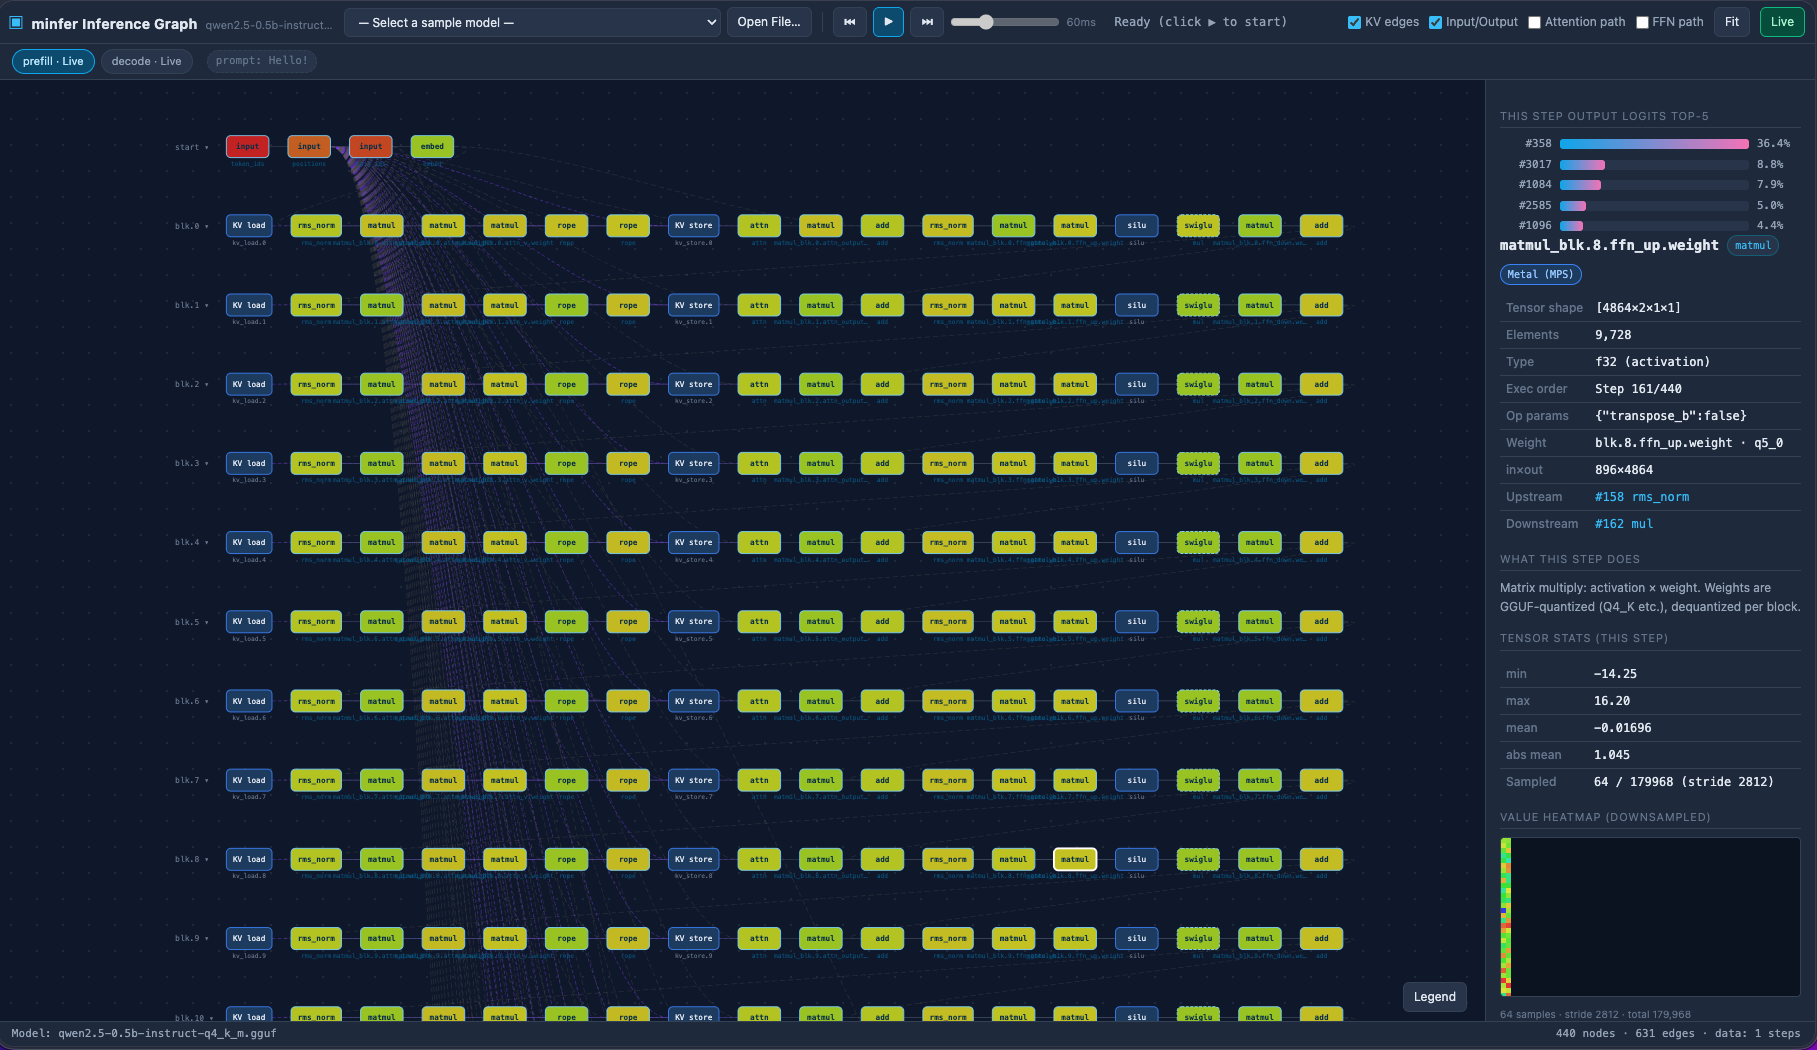
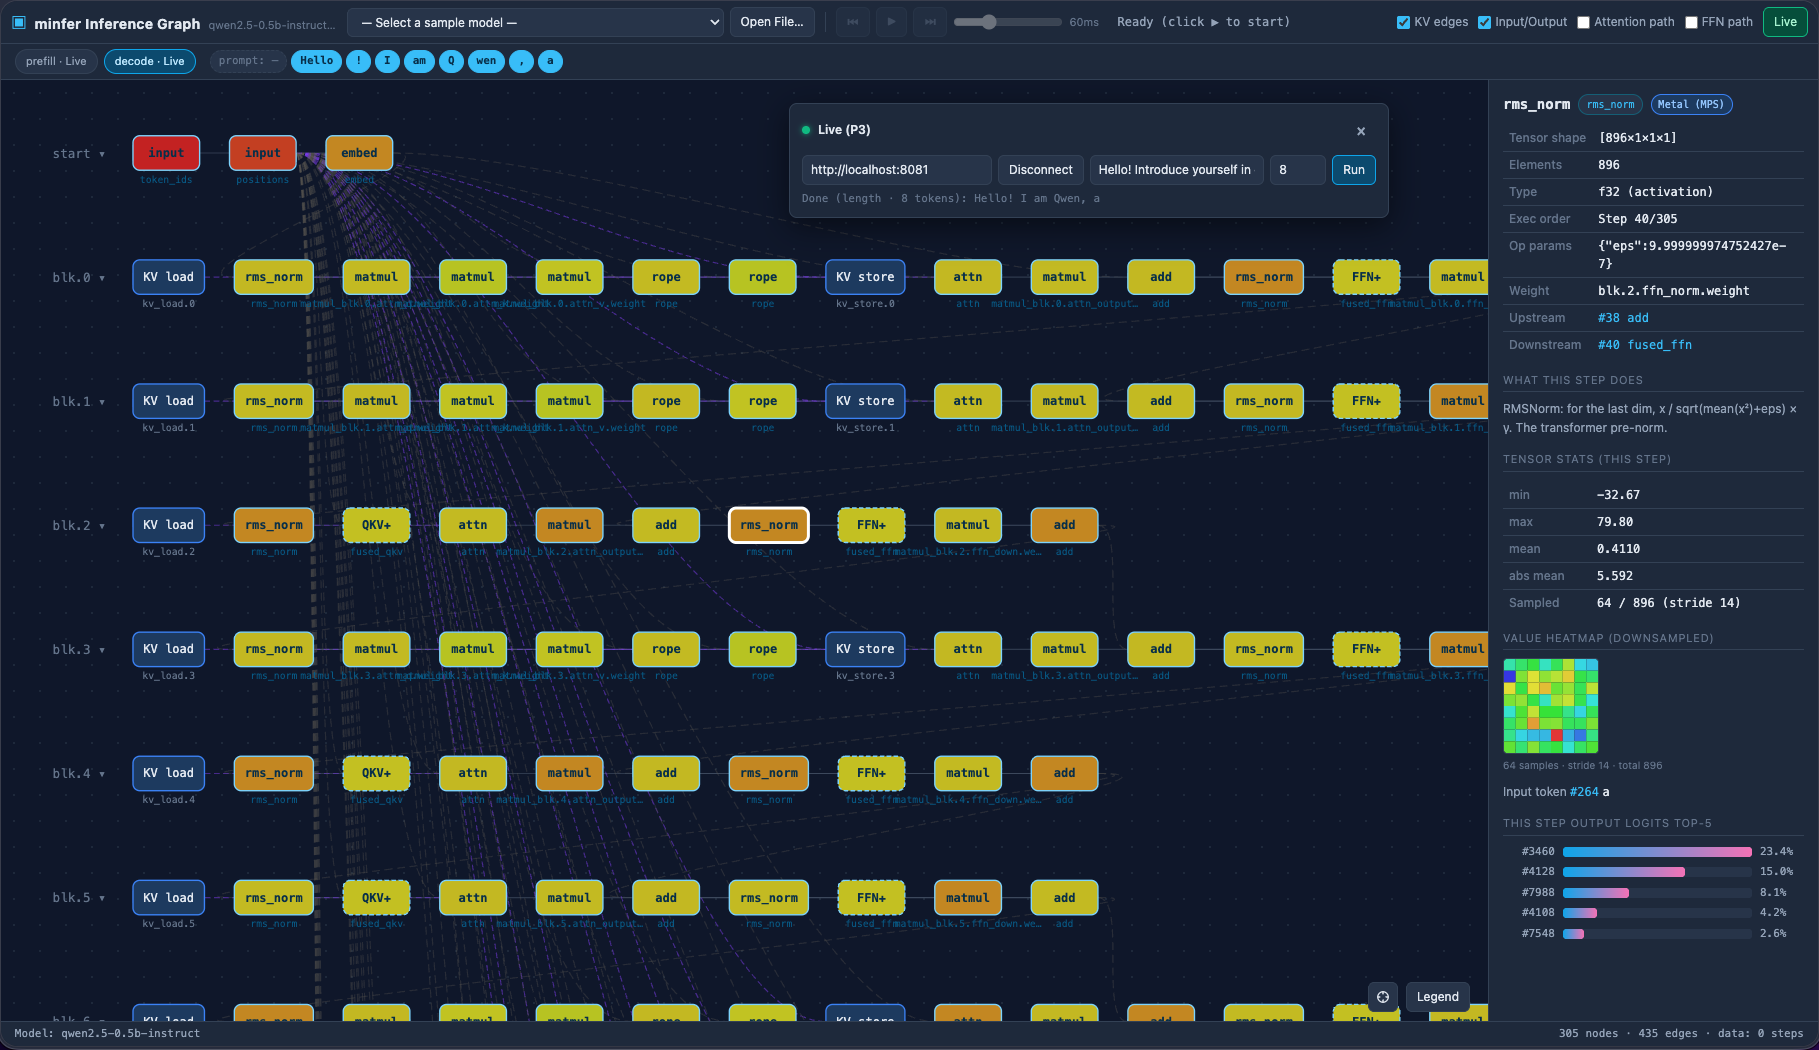
feat(viz): improve heatmap layout and panel content ordering
- Moved step summary below node details in renderPanel
- Improved heatmap grid fallback for 1D tensors
- Added adaptive cell sizing based on column count
- Updated heatmap SVG to use viewBox and preserveAspectRatio
- Updated demo image to reflect UI changes

diff --git a/viz/app.js b/viz/app.js
@@ -441,7 +441,6 @@ function renderPanel(id) {
       step = liveSteps.length ? liveSteps[liveSteps.length - 1] : null;
     }
   }
-  if (step) h += stepSummaryHtml(step);
 
   h += `<div class="node-header"><h3>${htmlEscape(n.name)}</h3>`;
   h += `<span class="badge op">${htmlEscape(n.op)}</span>`;
@@ -481,6 +480,10 @@ function renderPanel(id) {
   h += `<div class="explain">${OP_EXPLAIN[n.op] || "(no description yet)"}</div>`;
 
   h += renderExtraData(n);
+  // Step overview (input token + logits top-5) goes below the node details so
+  // clicking a node shows its details first instead of hiding them under the
+  // (scrolling) step summary.
+  if (step) h += stepSummaryHtml(step);
   body.innerHTML = h;
   body.querySelectorAll(".link-node").forEach(s => {
     s.addEventListener("click", () => selectNode(parseInt(s.dataset.id, 10)));
@@ -524,20 +527,26 @@ function renderExtraData(n) {
 function renderHeatmap(containerId, values, shape, stride) {
   const wrap = document.getElementById(containerId);
   if (!wrap) return;
-  const cols = Math.min((shape && shape[1]) || 1, 16);
+  // The natural layout mirrors the tensor's [d, nt] grid. But for a 1D/decode
+  // tensor (nt == 1) the grid collapses to a single vertical column (a thin
+  // strip), which reads poorly. Fall back to a roughly-square grid so the
+  // downsampled samples form a readable heatmap.
+  let cols = Math.min((shape && shape[1]) || 1, 16);
+  if (cols < 2) cols = Math.max(2, Math.min(16, Math.ceil(Math.sqrt(values.length))));
   const rows = Math.ceil(values.length / cols);
+  const CELL = Math.max(6, Math.min(12, Math.floor(200 / cols)));
   let min = Infinity, max = -Infinity;
   for (const v of values) { if (v < min) min = v; if (v > max) max = v; }
   const span = (max - min) || 1;
-  const W = cols * 5, H = Math.max(rows * 5, 10);
+  const W = cols * CELL, H = rows * CELL;
   let cells = "";
   for (let i = 0; i < values.length; i++) {
     const t = (values[i] - min) / span;
     const hue = 240 - t * 240; // 蓝 → 红
-    const x = (i % cols) * 5, y = Math.floor(i / cols) * 5;
-    cells += `<rect x="${x}" y="${y}" width="5" height="5" fill="hsl(${hue},75%,55%)"/>`;
+    const x = (i % cols) * CELL, y = Math.floor(i / cols) * CELL;
+    cells += `<rect x="${x}" y="${y}" width="${CELL}" height="${CELL}" fill="hsl(${hue},75%,55%)"/>`;
   }
-  wrap.innerHTML = `<svg width="${W}" height="${H}" xmlns="${SVG_NS}">${cells}</svg>`;
+  wrap.innerHTML = `<svg width="${W}" height="${H}" viewBox="0 0 ${W} ${H}" xmlns="${SVG_NS}" preserveAspectRatio="none">${cells}</svg>`;
 }
 
 /* ---------------- 过滤 ---------------- */
@@ -600,6 +609,10 @@ function fit() {
 function initPanZoom() {
   let dragging = false, sx = 0, sy = 0, vx = 0, vy = 0;
   canvas.addEventListener("pointerdown", e => {
+    // Let node clicks through: setPointerCapture here would retarget the pointer
+    // (and the resulting click) to the canvas, so the node's click handler never
+    // fires and selecting a node by a real mouse click silently fails.
+    if (e.target.closest(".node-group")) return;
     dragging = true; sx = e.clientX; sy = e.clientY; vx = state.view.x; vy = state.view.y;
     canvas.classList.add("panning");
     canvas.setPointerCapture(e.pointerId);

diff --git a/viz/style.css b/viz/style.css
@@ -211,7 +211,7 @@ main { flex: 1; display: flex; flex-direction: column; min-height: 0; }
 .link-node:hover { text-decoration: underline; }
 
 .hm-wrap { margin-top: 8px; }
-.hm-wrap svg { width: 100%; border: 1px solid var(--border); border-radius: 4px; background: #0b1220; }
+.hm-wrap svg { display: block; max-width: 100%; border: 1px solid var(--border); border-radius: 4px; background: #0b1220; }
 .hm-caption { font-size: 10px; color: var(--fg-faint); margin-top: 4px; }
 
 /* ---------- live panel（P3） ---------- */
@@ -247,10 +247,14 @@ main { flex: 1; display: flex; flex-direction: column; min-height: 0; }
 .flex-spacer { flex: 1; }
 
 /* ---------- legend ---------- */
-#btn-legend {
+.corner-tools {
   position: fixed; right: 348px; bottom: 34px; z-index: 20;
-  background: var(--bg-3); font-size: 12px;
+  display: flex; align-items: center; gap: 8px;
 }
+.corner-tools button { background: var(--bg-3); font-size: 12px; display: inline-flex; align-items: center; }
+#btn-legend { background: var(--bg-3); font-size: 12px; }
+#btn-fit { width: 30px; height: 30px; justify-content: center; padding: 0; }
+#btn-fit svg { vertical-align: middle; }
 #legend-pop {
   display: none; position: fixed; right: 348px; bottom: 66px; z-index: 20;
   width: 420px; max-height: 70vh; overflow-y: auto;

diff --git a/viz/index.html b/viz/index.html
@@ -36,7 +36,6 @@
     <label title="Show input/output nodes"><input type="checkbox" id="f-io" checked> Input/Output</label>
     <label title="Only show nodes on the attention path"><input type="checkbox" id="f-attn"> Attention path</label>
     <label title="Only show nodes on the FFN path"><input type="checkbox" id="f-ffn"> FFN path</label>
-    <button id="btn-fit" title="Fit to window">Fit</button>
     <button id="btn-live" class="live-btn" title="Connect to a minfer server to watch live inference">Live</button>
   </div>
 </header>
@@ -100,7 +99,12 @@
   <div class="legend-title">Operator legend <button id="legend-close">×</button></div>
   <table id="legend-table"></table>
 </div>
-<button id="btn-legend" title="Operator legend">Legend</button>
+<div class="corner-tools">
+  <button id="btn-fit" title="Fit to window" aria-label="Fit to window">
+    <svg viewBox="0 0 16 16" width="14" height="14" fill="none" stroke="currentColor" stroke-width="1.5" aria-hidden="true"><circle cx="8" cy="8" r="6"/><path d="M8 2v3M8 11v3M2 8h3M11 8h3"/></svg>
+  </button>
+  <button id="btn-legend" title="Operator legend">Legend</button>
+</div>
 
 <script src="app.js"></script>
 </body>
